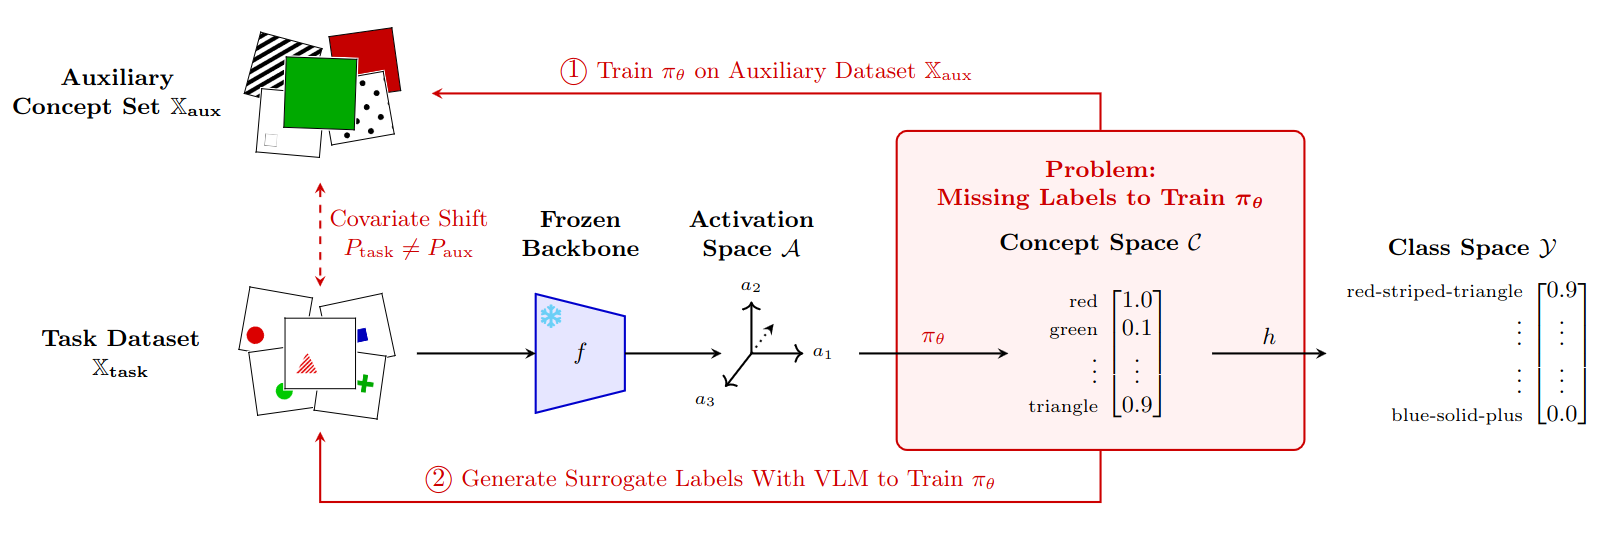
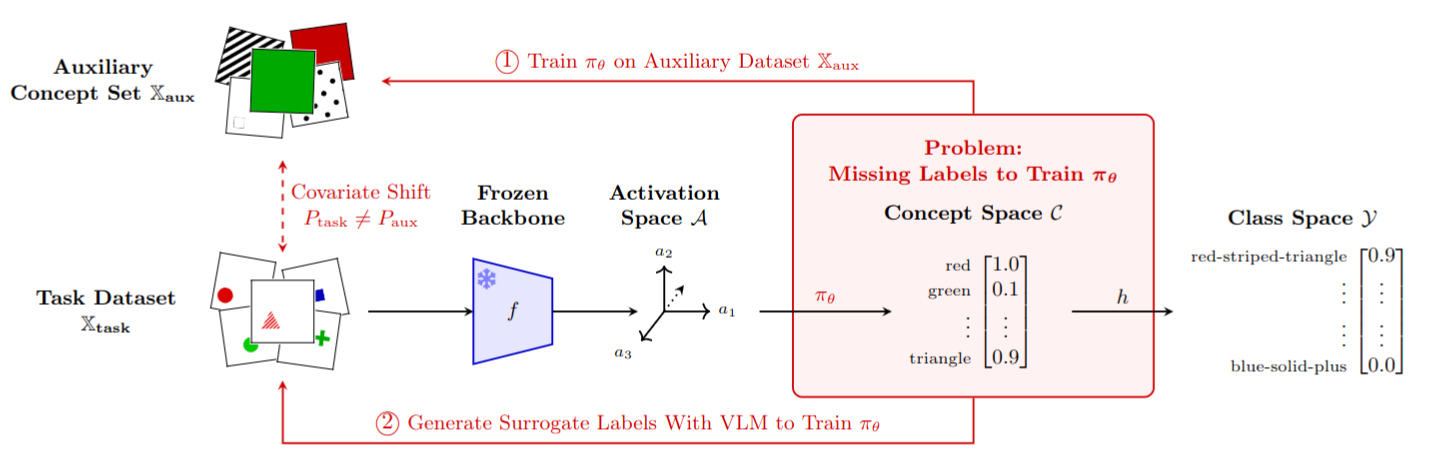
updated abstract and teaser

diff --git a/index.html b/index.html
@@ -239,15 +239,15 @@ span.linenos.special { color: #000000; background-color: #ffffc0; padding-left: 
               <div>&ensp;</div>
               <div class="content has-text-justified">
               Human decision-making interprets the world through high-level concepts, such as recognizing a bird by its belly color.
-              To bridge the gap between opaque deep learning representations and human understanding, Post-Hoc Concept Bottleneck Models (PCBMs) project latent features onto interpretable concept spaces using auxiliary datasets or vision-language models. 
-              However, relying on target task accuracy as the primary measure of PCBM success obscures whether the learned concepts are semantically meaningful or merely predictive artifacts.
+              To bridge the gap between opaque deep learning representations and human understanding, Post-Hoc Concept Bottleneck Models (post-hoc CBMs) project latent features onto interpretable concept spaces using auxiliary datasets or vision-language models. 
+              However, relying on target task accuracy as the primary measure of post-hoc CBM success obscures whether the learned concepts are semantically meaningful or merely predictive artifacts.
               For example, random concept projections can achieve competitive accuracy despite being semantically meaningless.
               In this work, we analyze the learned projections directly and identify two failure cases:
-              First, for concept projections learned from auxiliary data, distribution shifts can lead to unfaithful concept representations for the target task.
+              First, for concept projections learned from auxiliary data, covariate shifts can lead to unfaithful concept representations for the target task.
               In particular, we provide an upper bound on the error introduced by this shift.
               Second, systematic label noise in surrogate concept labels generated by vision-language models leads to unfaithful projections. 
               After formalizing these failure modes, we introduce novel metrics that decouple concept faithfulness from predictive accuracy.
-              Our empirical results across real-world and synthetic benchmarks confirm that these metrics identify unfaithful behaviors that standard accuracy-based evaluation fails to detect.
+              Our empirical results across real-world and synthetic benchmarks confirm that these metrics identify unfaithful behaviors that standard accuracy-based evaluation fails to detect
               </div>
             </p>
           </div>